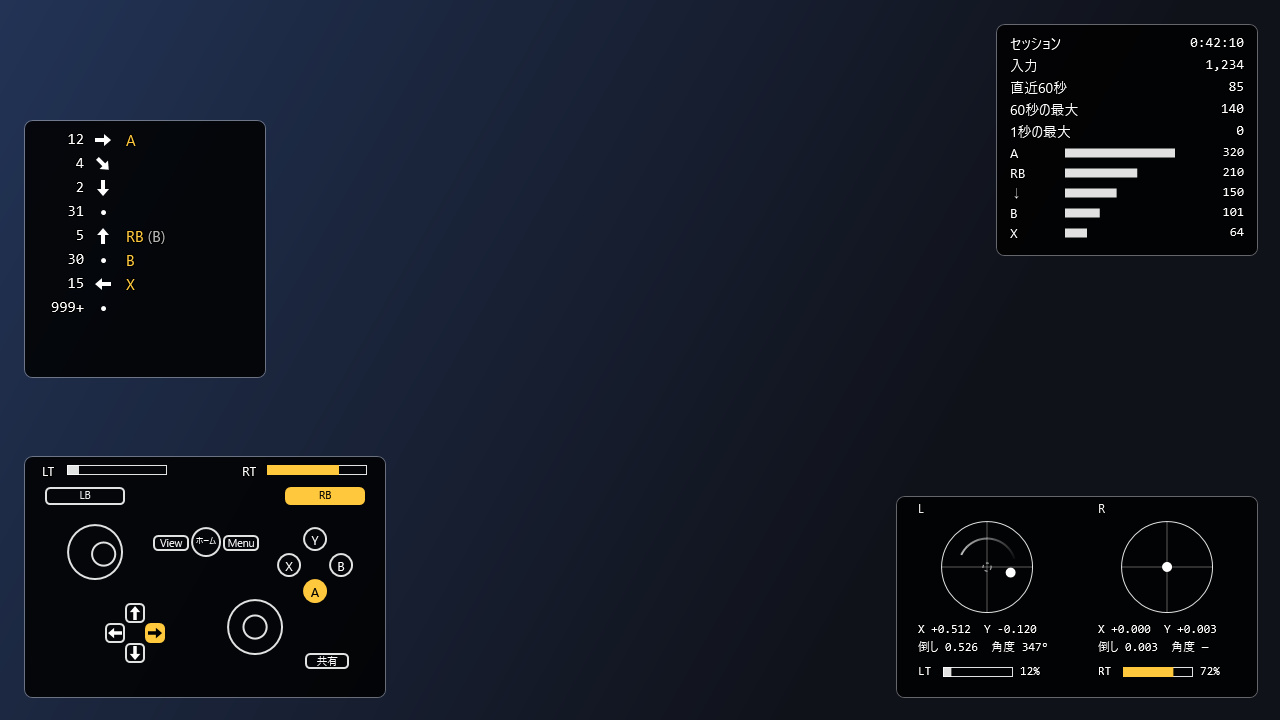
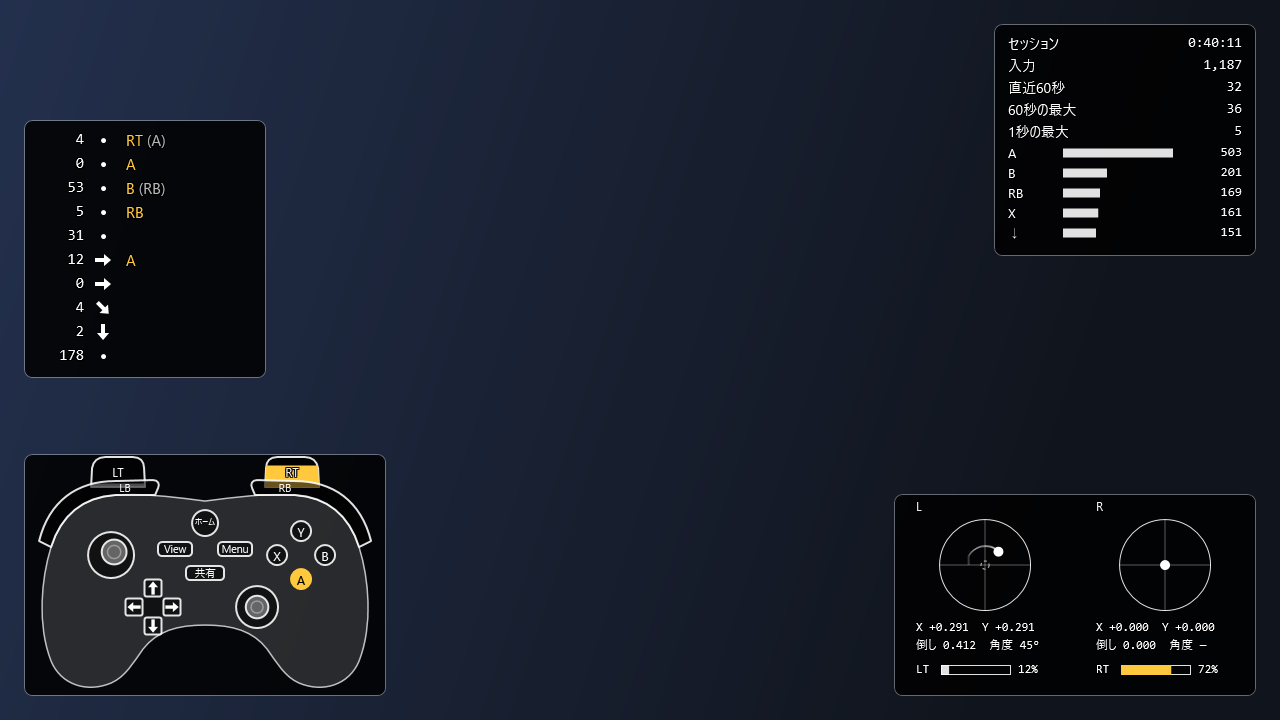
Redraw the pad view: body outlines per skin, shaped triggers and bumpers, joined D-pad, recessed buttons
- Xbox, PlayStation and Switch Pro get their own body outline with grips; Joy-Con pair gets two rail-shaped
  bodies and the arcade stick a rounded box. Switch Pro now has its own layout instead of reusing Xbox.
- Bumpers follow the outside of the body's top edge; triggers are rounded plates behind them that fill
  from the bottom by the analog value.
- D-pad arms join into one cross; buttons and stick bases sit in a recess (Draw.Inset), the body uses a faint
  tint of the line color (Draw.Body); stick caps get a grip ring. Colors follow the panel theme.
- Regenerated docs/images/panels.png from synthetic input (no screen capture).

diff --git a/src/PadSight.App/Panels/PadView.cs b/src/PadSight.App/Panels/PadView.cs
@@ -1,5 +1,6 @@
 // O1 パッド表示(画面設計書 §4.1・仕様書 FR-15〜FR-18)。スキンごとの配置を表で持ち、図形で描く(D-16)。
-// 押しているボタンは「押したときの色」で塗って線を太くし、スティックの丸は値 ×(土台の半径 × 0.6)だけ動かす。
+// 型ごとに本体の輪郭・肩のボタン・トリガーの形を描き、ボタンはその上のくぼみとして置く(2026-11-17 に作り直した)。
+// 押しているボタンは「押したときの色」で塗って線を太くし、トリガーは押した分だけ下から塗り、スティックの頭は値 × Travel だけ動かす。
 // メーカーのロゴや画像は使わない(INV-12)。
 using System.Windows;
 using System.Windows.Controls;
@@ -11,70 +12,154 @@ namespace PadSight.App.Panels;
 
 public sealed class PadView : PanelView
 {
-    enum K { Circle, Rect, Trigger, Stick, Touchpad, Lever, Deco }
+    enum K { Circle, Rect, Trigger, Stick, Touchpad, Lever, Deco, Body, Bumper }
 
-    /// <summary>Circle・Rect・Touchpad・Deco は左上と幅・高さ。Stick・Lever は中心と半径(W)。Trigger は文字の左上と棒の長さ(W)・太さ(H)。</summary>
-    sealed record El(K Kind, string Key, double X, double Y, double W, double H = 0);
+    /// <summary>Circle・Rect・Touchpad・Deco は左上と幅・高さ。Stick・Lever は中心と半径(W)。
+    /// Body(本体の輪郭)・Trigger(肩の上のトリガー)は G の形で、X・Y・W・H は使わない。Bumper(肩のボタン)は G の形で、X・Y は文字の中心。</summary>
+    sealed record El(K Kind, string Key, double X, double Y, double W, double H = 0, Geometry? G = null);
+
+    /// <summary>絵の幅(左右の写しの軸は X = 180)。</summary>
+    const double CanvasWidth = 360;
+
+    static Geometry Geo(string data)
+    {
+        var g = Geometry.Parse(data);
+        g.Freeze();
+        return g;
+    }
+
+    /// <summary>左側の形を、X = 180 を軸に右へ写す。</summary>
+    static Geometry Mirror(Geometry g)
+    {
+        var m = g.Clone();
+        m.Transform = new MatrixTransform(-1, 0, 0, 1, CanvasWidth, 0);
+        m.Freeze();
+        return m;
+    }
+
+    /// <summary>左のトリガーの形から、左右 2 つを作る。</summary>
+    static El[] TriggerPair(string trigger)
+    {
+        var g = Geo(trigger);
+        return [new(K.Trigger, "LeftTrigger", 0, 0, 0, G: g), new(K.Trigger, "RightTrigger", 0, 0, 0, G: Mirror(g))];
+    }
+
+    /// <summary>左の肩のボタンの形と、その文字の中心 (lx, ly) から、左右 2 つを作る。</summary>
+    static El[] Bumpers(string bumper, double lx, double ly)
+    {
+        var b = Geo(bumper);
+        return [new(K.Bumper, "LeftShoulder", lx, ly, 0, G: b), new(K.Bumper, "RightShoulder", CanvasWidth - lx, ly, 0, G: Mirror(b))];
+    }
+
+    /// <summary>本体の輪郭。左半分(上の真ん中から時計の逆回りに、下の真ん中まで)を渡すと、右半分を写して閉じる。</summary>
+    static El Body(string leftHalf, double topY, double bottomY)
+    {
+        // 左半分を写した物を逆にたどる代わりに、左右を 1 つずつの図形にして合わせる
+        var left = Geo($"M 180,{topY} {leftHalf} L 180,{bottomY} Z");
+        var both = Geometry.Combine(left, Mirror(left), GeometryCombineMode.Union, null);
+        both.Freeze();
+        return new(K.Body, "", 0, 0, 0, G: both);
+    }
+
+    /// <summary>十字キー。中心 (cx, cy)、腕 1 本の幅 a。真ん中の四角は飾り。</summary>
+    static El[] Dpad(double cx, double cy, double a) =>
+    [
+        new(K.Deco, "", cx - a / 2, cy - a / 2, a, a),
+        new(K.Rect, "DpadUp", cx - a / 2, cy - a * 1.5, a, a), new(K.Rect, "DpadDown", cx - a / 2, cy + a / 2, a, a),
+        new(K.Rect, "DpadLeft", cx - a * 1.5, cy - a / 2, a, a), new(K.Rect, "DpadRight", cx + a / 2, cy - a / 2, a, a),
+    ];
+
+    /// <summary>右の 4 つのボタン。中心 (cx, cy)、中心どうしの間 d、ボタンの直径 s。</summary>
+    static El[] Face(double cx, double cy, double d, double s) =>
+    [
+        new(K.Circle, "North", cx - s / 2, cy - d - s / 2, s, s), new(K.Circle, "West", cx - d - s / 2, cy - s / 2, s, s),
+        new(K.Circle, "East", cx + d - s / 2, cy - s / 2, s, s), new(K.Circle, "South", cx - s / 2, cy + d - s / 2, s, s),
+    ];
+
+    // 肩: トリガーは上の縁の後ろから出た丸い板、肩のボタンは本体の上の縁の外側に沿った帯(内側の線は本体の縁と同じ)
+    const string XboxTrigger = "M 66,32 L 67,13 C 68,6 73,2 80,2 L 108,2 C 115,2 119,6 119,13 L 120,32 Z";
+    const string XboxBumper = "M 14,86 C 24,46 52,26 90,26 L 128,25 C 133,25 135,29 133,33 L 130,40 L 90,40 C 58,42 36,60 26,92 Z";
+    const string PsTrigger = "M 60,36 L 61,13 C 62,6 67,2 74,2 L 100,2 C 107,2 111,6 111,13 L 112,36 Z";
+    const string PsBumper = "M 6,92 C 12,58 32,34 58,33 C 78,32 98,37 120,37 C 125,37 127,41 125,45 L 120,50 C 96,50 76,44 58,46 C 36,48 22,66 16,96 Z";
+    const string ProTrigger = "M 62,34 L 63,13 C 64,6 69,2 76,2 L 104,2 C 111,2 115,6 115,13 L 116,34 Z";
+    const string ProBumper = "M 10,100 C 20,58 46,32 82,31 L 128,30 C 133,30 135,34 133,38 L 130,44 C 112,42 96,42 82,44 C 50,48 30,70 22,104 Z";
 
     static readonly El[] Paddles =
     [
-        new(K.Rect, "Paddle1", 120, 222, 24, 12), new(K.Rect, "Paddle2", 150, 222, 24, 12),
-        new(K.Rect, "Paddle3", 180, 222, 24, 12), new(K.Rect, "Paddle4", 210, 222, 24, 12),
+        new(K.Rect, "Paddle1", 128, 208, 24, 16), new(K.Rect, "Paddle2", 156, 208, 24, 16),
+        new(K.Rect, "Paddle3", 184, 208, 24, 16), new(K.Rect, "Paddle4", 212, 208, 24, 16),
     ];
 
     static readonly El[] XboxLayout =
     [
-        new(K.Trigger, "LeftTrigger", 16, 8, 100, 10), new(K.Trigger, "RightTrigger", 216, 8, 100, 10),
-        new(K.Rect, "LeftShoulder", 20, 30, 80, 18), new(K.Rect, "RightShoulder", 260, 30, 80, 18),
-        new(K.Stick, "LeftStick", 70, 95, 28),
-        new(K.Rect, "Back", 128, 78, 36, 16), new(K.Circle, "Guide", 166, 70, 30, 30), new(K.Rect, "Start", 198, 78, 36, 16),
-        new(K.Circle, "North", 278, 70, 24, 24), new(K.Circle, "West", 252, 96, 24, 24),
-        new(K.Circle, "East", 304, 96, 24, 24), new(K.Circle, "South", 278, 122, 24, 24),
-        new(K.Rect, "DpadUp", 100, 146, 20, 20), new(K.Rect, "DpadDown", 100, 186, 20, 20),
-        new(K.Rect, "DpadLeft", 80, 166, 20, 20), new(K.Rect, "DpadRight", 120, 166, 20, 20),
-        new(K.Stick, "RightStick", 230, 170, 28),
-        new(K.Rect, "Misc1", 280, 196, 44, 16),
+        .. TriggerPair(XboxTrigger),
+        Body("C 150,42 118,38 90,40 C 58,42 36,60 26,92 C 16,124 12,170 26,206 C 36,230 62,238 86,228 C 100,222 108,208 118,194 C 132,176 152,170 180,170", 46, 170),
+        .. Bumpers(XboxBumper, 100, 33),
+        new(K.Stick, "LeftStick", 86, 100, 24),
+        new(K.Rect, "Back", 132, 86, 36, 16), new(K.Circle, "Guide", 166, 54, 28, 28), new(K.Rect, "Start", 192, 86, 36, 16),
+        new(K.Rect, "Misc1", 160, 110, 40, 16),
+        .. Face(276, 100, 24, 22),
+        .. Dpad(128, 152, 19),
+        new(K.Stick, "RightStick", 232, 152, 22),
         .. Paddles,
     ];
 
     static readonly El[] PlayStationLayout =
     [
-        new(K.Trigger, "LeftTrigger", 16, 8, 100, 10), new(K.Trigger, "RightTrigger", 216, 8, 100, 10),
-        new(K.Rect, "LeftShoulder", 20, 30, 80, 18), new(K.Rect, "RightShoulder", 260, 30, 80, 18),
-        new(K.Rect, "DpadUp", 50, 86, 20, 20), new(K.Rect, "DpadDown", 50, 126, 20, 20),
-        new(K.Rect, "DpadLeft", 30, 106, 20, 20), new(K.Rect, "DpadRight", 70, 106, 20, 20),
-        new(K.Rect, "Back", 92, 60, 44, 16), new(K.Touchpad, "Touchpad", 140, 52, 80, 40), new(K.Rect, "Start", 224, 60, 48, 16),
-        new(K.Circle, "North", 288, 66, 24, 24), new(K.Circle, "West", 262, 92, 24, 24),
-        new(K.Circle, "East", 314, 92, 24, 24), new(K.Circle, "South", 288, 118, 24, 24),
-        new(K.Circle, "Guide", 165, 100, 30, 30),
-        new(K.Stick, "LeftStick", 120, 180, 26), new(K.Stick, "RightStick", 240, 180, 26),
-        new(K.Rect, "Misc1", 158, 150, 44, 16),
+        .. TriggerPair(PsTrigger),
+        Body("L 120,50 C 96,50 76,44 58,46 C 36,48 22,66 16,96 C 8,136 10,190 26,220 C 36,238 62,240 76,226 C 88,214 98,196 112,180 C 126,166 150,164 180,164", 50, 164),
+        .. Bumpers(PsBumper, 90, 41),
+        .. Dpad(66, 106, 19),
+        new(K.Rect, "Back", 94, 58, 44, 16), new(K.Touchpad, "Touchpad", 140, 44, 80, 44), new(K.Rect, "Start", 222, 58, 48, 16),
+        .. Face(294, 106, 23, 22),
+        new(K.Circle, "Guide", 166, 96, 28, 28),
+        new(K.Rect, "Misc1", 158, 126, 44, 16),
+        new(K.Stick, "LeftStick", 126, 144, 22), new(K.Stick, "RightStick", 234, 144, 22),
         .. Paddles,
     ];
 
+    static readonly El[] SwitchProLayout =
+    [
+        .. TriggerPair(ProTrigger),
+        Body("C 146,44 110,40 82,44 C 50,48 30,70 22,104 C 14,140 16,190 34,216 C 48,236 74,238 92,224 C 104,214 112,198 122,184 C 136,170 156,166 180,166", 48, 166),
+        .. Bumpers(ProBumper, 100, 37),
+        new(K.Stick, "LeftStick", 82, 100, 24),
+        new(K.Rect, "Back", 136, 64, 26, 16), new(K.Rect, "Start", 198, 64, 26, 16),
+        new(K.Rect, "Misc1", 118, 90, 56, 16), new(K.Circle, "Guide", 194, 86, 28, 28),
+        .. Face(278, 100, 24, 22),
+        .. Dpad(132, 148, 18),
+        new(K.Stick, "RightStick", 228, 150, 22),
+        .. Paddles,
+    ];
+
+    // Joy-Con は 2 本の別々の本体。内側の辺がまっすぐで、外側が丸い
+    const string JoyConLeft = "M 166,40 L 166,236 L 96,236 C 56,236 34,210 34,170 L 34,104 C 34,64 56,40 96,40 Z";
+    const string JoyConTrigger = "M 68,32 C 74,12 88,2 106,2 L 136,2 C 141,2 143,6 143,11 L 143,32 Z";
+    const string JoyConBumper = "M 22,104 C 22,56 50,28 96,28 L 140,28 C 144,28 146,31 146,35 L 146,40 L 96,40 C 56,40 34,64 34,104 Z";
+
     static readonly El[] JoyConPairLayout =
     [
-        new(K.Deco, "", 18, 28, 152, 206), new(K.Deco, "", 190, 28, 152, 206),
-        new(K.Trigger, "LeftTrigger", 24, 6, 100, 10), new(K.Trigger, "RightTrigger", 206, 6, 100, 10),
-        new(K.Rect, "LeftShoulder", 28, 36, 70, 16), new(K.Rect, "Back", 128, 40, 28, 16),
-        new(K.Stick, "LeftStick", 80, 92, 24),
-        new(K.Circle, "DpadUp", 70, 128, 20, 20), new(K.Circle, "DpadLeft", 50, 148, 20, 20),
-        new(K.Circle, "DpadRight", 90, 148, 20, 20), new(K.Circle, "DpadDown", 70, 168, 20, 20),
-        new(K.Rect, "Misc1", 96, 200, 60, 16),
-        new(K.Rect, "RightShoulder", 262, 36, 70, 16), new(K.Rect, "Start", 204, 40, 28, 16),
-        new(K.Circle, "North", 270, 66, 24, 24), new(K.Circle, "West", 246, 90, 24, 24),
-        new(K.Circle, "East", 294, 90, 24, 24), new(K.Circle, "South", 270, 114, 24, 24),
-        new(K.Stick, "RightStick", 284, 176, 24), new(K.Circle, "Guide", 204, 186, 30, 30),
+        .. TriggerPair(JoyConTrigger),
+        new(K.Body, "", 0, 0, 0, G: Geo(JoyConLeft)), new(K.Body, "", 0, 0, 0, G: Mirror(Geo(JoyConLeft))),
+        .. Bumpers(JoyConBumper, 112, 34),
+        new(K.Rect, "Back", 138, 54, 22, 16), new(K.Rect, "Start", 200, 54, 22, 16),
+        new(K.Stick, "LeftStick", 98, 104, 22),
+        new(K.Circle, "DpadUp", 88, 138, 20, 20), new(K.Circle, "DpadLeft", 66, 160, 20, 20),
+        new(K.Circle, "DpadRight", 110, 160, 20, 20), new(K.Circle, "DpadDown", 88, 182, 20, 20),
+        new(K.Rect, "Misc1", 100, 210, 58, 16),
+        .. Face(262, 104, 23, 22),
+        new(K.Stick, "RightStick", 262, 172, 22), new(K.Circle, "Guide", 202, 202, 28, 28),
     ];
 
     static readonly El[] ArcadeLayout =
     [
-        new(K.Lever, "", 80, 110, 30),
-        new(K.Circle, "West", 160, 64, 30, 30), new(K.Circle, "North", 204, 64, 30, 30),
-        new(K.Circle, "RightShoulder", 248, 64, 30, 30), new(K.Circle, "LeftShoulder", 292, 64, 30, 30),
-        new(K.Circle, "South", 160, 112, 30, 30), new(K.Circle, "East", 204, 112, 30, 30),
-        new(K.Circle, "RightTrigger", 248, 112, 30, 30), new(K.Circle, "LeftTrigger", 292, 112, 30, 30),
-        new(K.Rect, "Back", 118, 192, 36, 16), new(K.Circle, "Guide", 165, 184, 30, 30), new(K.Rect, "Start", 206, 192, 36, 16),
+        new(K.Body, "", 0, 0, 0, G: Geo("M 30,22 L 330,22 C 342,22 350,30 350,42 L 350,214 C 350,226 342,234 330,234 L 30,234 C 18,234 10,226 10,214 L 10,42 C 10,30 18,22 30,22 Z")),
+        new(K.Lever, "", 80, 116, 30),
+        new(K.Circle, "West", 160, 70, 30, 30), new(K.Circle, "North", 204, 62, 30, 30),
+        new(K.Circle, "RightShoulder", 248, 62, 30, 30), new(K.Circle, "LeftShoulder", 292, 70, 30, 30),
+        new(K.Circle, "South", 160, 116, 30, 30), new(K.Circle, "East", 204, 108, 30, 30),
+        new(K.Circle, "RightTrigger", 248, 108, 30, 30), new(K.Circle, "LeftTrigger", 292, 116, 30, 30),
+        new(K.Rect, "Back", 118, 194, 36, 16), new(K.Circle, "Guide", 165, 186, 30, 30), new(K.Rect, "Start", 206, 194, 36, 16),
     ];
 
     sealed class Part
@@ -85,7 +170,12 @@ public sealed class PadView : PanelView
         public Path? Arrow;
         public Rectangle? Fill;
         public TranslateTransform? Knob;
+        /// <summary>トリガーの塗りの高さの最大(形の高さ)。</summary>
+        public double Span;
     }
+
+    /// <summary>スティックの頭が動く距離(土台の半径に対する割合)。頭の半径は土台の 0.56。</summary>
+    const double Travel = 0.44, KnobRatio = 0.56;
 
     readonly List<Part> _parts = [];
     readonly List<OutlineText> _raw = [];
@@ -124,6 +214,7 @@ public sealed class PadView : PanelView
         var layout = skin switch
         {
             Skin.PlayStation => PlayStationLayout,
+            Skin.SwitchPro => SwitchProLayout,
             Skin.JoyConPair => JoyConPairLayout,
             Skin.Arcade => ArcadeLayout,
             _ => XboxLayout,
@@ -145,26 +236,53 @@ public sealed class PadView : PanelView
         var part = new Part { El = el };
         switch (el.Kind)
         {
-            case K.Deco:
-                Canvas.Children.Add(new Rectangle { Width = el.W, Height = el.H, RadiusX = 30, RadiusY = 30, Stroke = Draw.Faint, StrokeThickness = Draw.Thin }.At(el.X, el.Y));
+            case K.Body:
+                Canvas.Children.Add(new Path { Data = el.G, Fill = Draw.Body, Stroke = Draw.Weak, StrokeThickness = 1.5, StrokeLineJoin = PenLineJoin.Round });
+                break;
+            case K.Deco: // 十字キーの真ん中。腕の線がそのまま十字の輪郭になるように、線は引かない
+                Canvas.Children.Add(new Rectangle { Width = el.W, Height = el.H, Fill = Draw.Inset }.At(el.X, el.Y));
                 break;
             case K.Trigger:
-                Canvas.Children.Add(Draw.Text(Labels.For(el.Key, skin, settings.LabelStyle, pad), 12.5).At(el.X, el.Y - 3));
-                Canvas.Children.Add(new Rectangle { Width = el.W, Height = el.H, Stroke = Draw.Line, StrokeThickness = 1 }.At(el.X + 26, el.Y));
-                part.Fill = new Rectangle { Width = 0, Height = el.H }.At(el.X + 26, el.Y);
-                Canvas.Children.Add(part.Fill);
+            {
+                var b = el.G!.Bounds;
+                Canvas.Children.Add(new Path { Data = el.G, Fill = Draw.Inset, Stroke = Draw.Line, StrokeThickness = Draw.Thin, StrokeLineJoin = PenLineJoin.Round });
+                // 塗りは形で切り抜いた入れ物の中で、下から伸ばす(写した形は自分の変換を持つので、組にして動かす)
+                var clip = new GeometryGroup { Children = { el.G }, Transform = new TranslateTransform(-b.X, -b.Y) };
+                clip.Freeze();
+                var holder = new Canvas { Width = b.Width, Height = b.Height, Clip = clip, IsHitTestVisible = false };
+                part.Fill = new Rectangle { Width = b.Width, Height = 0 };
+                part.Span = b.Height;
+                holder.Children.Add(part.Fill.At(0, b.Height));
+                Canvas.Children.Add(holder.At(b.X, b.Y));
+                var caption = Draw.Text(Labels.For(el.Key, skin, settings.LabelStyle, pad), 12);
+                caption.Width = b.Width;
+                caption.TextAlignment = TextAlignment.Center;
+                Canvas.Children.Add(caption.At(b.X, b.Y + 6));
+                break;
+            }
+            case K.Bumper:
+                part.Shape = new Path { Data = el.G, StrokeLineJoin = PenLineJoin.Round };
+                Canvas.Children.Add(part.Shape);
+                part.Label = new TextBlock
+                {
+                    Text = Labels.For(el.Key, skin, settings.LabelStyle, pad), FontFamily = Draw.Ui, FontSize = 11,
+                    Width = 60, TextAlignment = TextAlignment.Center, IsHitTestVisible = false,
+                };
+                Canvas.Children.Add(part.Label.At(el.X - 30, el.Y - 8));
                 break;
             case K.Stick or K.Lever:
-                Canvas.Children.Add(new Ellipse { Width = el.W * 2, Height = el.W * 2, Stroke = Draw.Line, StrokeThickness = Draw.Thin }.At(el.X - el.W, el.Y - el.W));
-                double kr = el.W * 0.45;
+                Canvas.Children.Add(new Ellipse { Width = el.W * 2, Height = el.W * 2, Fill = Draw.Inset, Stroke = Draw.Line, StrokeThickness = Draw.Thin }.At(el.X - el.W, el.Y - el.W));
+                double kr = el.W * KnobRatio;
                 part.Knob = new TranslateTransform();
                 part.Shape = new Ellipse { Width = kr * 2, Height = kr * 2, RenderTransform = part.Knob }.At(el.X - kr, el.Y - kr);
                 Canvas.Children.Add(part.Shape);
+                if (el.Kind == K.Stick) // 頭の上の滑り止めの輪。頭と一緒に動く
+                    Canvas.Children.Add(new Ellipse { Width = kr * 1.1, Height = kr * 1.1, Stroke = Draw.Faint, StrokeThickness = 1.5, RenderTransform = part.Knob, IsHitTestVisible = false }.At(el.X - kr * 0.55, el.Y - kr * 0.55));
                 break;
             default:
                 part.Shape = el.Kind == K.Circle
                     ? new Ellipse { Width = el.W, Height = el.H }
-                    : new Rectangle { Width = el.W, Height = el.H, RadiusX = 4, RadiusY = 4 };
+                    : new Rectangle { Width = el.W, Height = el.H, RadiusX = el.Key.StartsWith("Dpad", StringComparison.Ordinal) ? 2 : 4, RadiusY = el.Key.StartsWith("Dpad", StringComparison.Ordinal) ? 2 : 4 };
                 Canvas.Children.Add(part.Shape.At(el.X, el.Y));
                 if (el.Key.StartsWith("Dpad", StringComparison.Ordinal))
                 {
@@ -198,22 +316,24 @@ public sealed class PadView : PanelView
             {
                 case K.Trigger:
                     float v = el.Key == "LeftTrigger" ? s.LeftTrigger : s.RightTrigger;
-                    p.Fill!.Width = el.W * v;
-                    p.Fill.Fill = v >= th ? pressedBrush : Draw.Line;
+                    double h = p.Span * v;
+                    p.Fill!.Height = h;
+                    Canvas.SetTop(p.Fill, p.Span - h);
+                    p.Fill.Fill = v >= th ? pressedBrush : Draw.Weak;
                     break;
                 case K.Stick:
                     var st = el.Key == "LeftStick" ? s.Left : s.Right;
-                    p.Knob!.X = st.X * el.W * 0.6;
-                    p.Knob.Y = -st.Y * el.W * 0.6;
-                    Draw.SetPressed(p.Shape!, s.Pressed.Contains(el.Key == "LeftStick" ? PadButton.LeftStick : PadButton.RightStick), pressedBrush);
+                    p.Knob!.X = st.X * el.W * Travel;
+                    p.Knob.Y = -st.Y * el.W * Travel;
+                    Draw.SetPressed(p.Shape!, s.Pressed.Contains(el.Key == "LeftStick" ? PadButton.LeftStick : PadButton.RightStick), pressedBrush, Draw.Faint);
                     break;
                 case K.Lever:
                     var (dx, dy) = LeverOffset(s);
-                    p.Knob!.X = dx * el.W * 0.6;
-                    p.Knob.Y = -dy * el.W * 0.6;
+                    p.Knob!.X = dx * el.W * Travel;
+                    p.Knob.Y = -dy * el.W * Travel;
                     p.Shape!.Fill = Draw.Line;
                     break;
-                case K.Deco:
+                case K.Deco or K.Body:
                     break;
                 default:
                     bool down = el.Key switch
@@ -222,7 +342,7 @@ public sealed class PadView : PanelView
                         "RightTrigger" => s.RightTrigger >= th,
                         _ => Enum.TryParse<PadButton>(el.Key, out var b) && s.Pressed.Contains(b),
                     };
-                    Draw.SetPressed(p.Shape!, down, pressedBrush);
+                    Draw.SetPressed(p.Shape!, down, pressedBrush, Draw.Inset);
                     if (p.Label is not null) p.Label.Foreground = down ? Draw.OnPressed(pressedBrush) : Draw.TextBrush;
                     if (p.Arrow is not null) p.Arrow.Fill = down ? Draw.OnPressed(pressedBrush) : Draw.TextBrush;
                     break;
@@ -248,16 +368,17 @@ public sealed class PadView : PanelView
             switch (el.Kind)
             {
                 case K.Trigger:
-                    p.Fill!.Width = el.W;
+                    p.Fill!.Height = p.Span;
+                    Canvas.SetTop(p.Fill, 0);
                     p.Fill.Fill = brush;
                     break;
                 case K.Lever:
                     p.Shape!.Fill = Draw.Line;
                     break;
-                case K.Deco:
+                case K.Deco or K.Body:
                     break;
                 default: // ボタンと、スティックの押し込み(つまみは真ん中のまま)
-                    p.Shape!.Fill = brush;
+                    p.Shape!.Fill = v > 0 ? brush : el.Kind == K.Stick ? Draw.Faint : Draw.Inset;
                     p.Shape.Stroke = v >= 1 ? pressed : Draw.Line;
                     p.Shape.StrokeThickness = v >= 1 ? Draw.Thick : Draw.Thin;
                     // 薄い塗りは地の色が透けるので、半分より濃いときだけ塗りに合わせた文字の色にする

diff --git a/src/PadSight.App/Panels/PanelView.cs b/src/PadSight.App/Panels/PanelView.cs
@@ -133,6 +133,9 @@ public static class Draw
     public static readonly SolidColorBrush Halo = new(Color.FromArgb(200, 0, 0, 0));
     /// <summary>メインの画面の見本・小さい表示の地(不透明)。</summary>
     public static readonly SolidColorBrush Background = new(Colors.Black);
+    /// <summary>パッドの本体の塗り(線の色をごく薄く)と、ボタン・スティックの土台のくぼみ(地の色を半分ほど)。</summary>
+    public static readonly SolidColorBrush Body = new(Color.FromArgb(38, 255, 255, 255));
+    public static readonly SolidColorBrush Inset = new(Color.FromArgb(150, 0, 0, 0));
     public const double Thin = 2.0, Thick = 3.0;
 
     static string _themeKey = "";
@@ -153,6 +156,8 @@ public static class Draw
         TextBrush.Color = Palette.Text;
         Halo.Color = Palette.Halo;
         Background.Color = Palette.Background;
+        Body.Color = Color.FromArgb(38, Palette.Line.R, Palette.Line.G, Palette.Line.B);
+        Inset.Color = Color.FromArgb(150, Palette.Background.R, Palette.Background.G, Palette.Background.B);
         return true;
     }
 
@@ -202,9 +207,10 @@ public static class Draw
         8 => 0, 9 => 45, 6 => 90, 3 => 135, 2 => 180, 1 => 225, 4 => 270, 7 => 315, _ => null,
     };
 
-    public static void SetPressed(Shape shape, bool pressed, Brush pressedBrush)
+    /// <param name="idle">押していないときの塗り。null なら透明</param>
+    public static void SetPressed(Shape shape, bool pressed, Brush pressedBrush, Brush? idle = null)
     {
-        shape.Fill = pressed ? pressedBrush : Brushes.Transparent;
+        shape.Fill = pressed ? pressedBrush : idle ?? Brushes.Transparent;
         shape.Stroke = pressed ? pressedBrush : Line;
         shape.StrokeThickness = pressed ? Thick : Thin;
     }

diff --git a/CHANGELOG.md b/CHANGELOG.md
@@ -18,6 +18,7 @@
 
 ### Changed
 
+- パッド表示の絵を作り直した: 型ごとの本体の輪郭(握りまで)、肩のボタンは本体の縁に沿った帯、トリガーは肩の上の板で押した分だけ下から塗る、十字キーは 1 つの十字、ボタンとスティックはくぼみの中。Switch Pro 型に専用の並びを足した。README の画像も描き直した
 - パネルを全部隠してメインの画面も閉じている間は、描画のループを止める
 - 取ってきた割り当ての一覧は、Windows の行だけを置く
 
